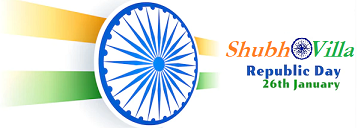
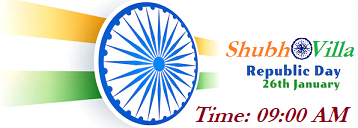
ok

Changed region(s): [[0.5223, 0.8125, 0.9832, 0.9688]]

diff --git a/index.html b/index.html
@@ -102,7 +102,7 @@
         
        <!-- <img class="NO-CACHE" data-src="img/WaterTiming.jpg" alt="" style="margin-bottom: 22px;">-->
 	   <marquee  scrollamount="5" style= "color:rgb(5, 97, 27) ; font-size:20px" height="30px" > 
-		<p> Upcoming Event: 26 January, Republic Day</p>
+		<p> Upcoming Event: 26 January, Republic Day, Time: 9:00 AM </p>
    </marquee>
    <marquee behavior="slide" direction="left">
    <img src="img/SV_RD.png" width="400" height="150" />
